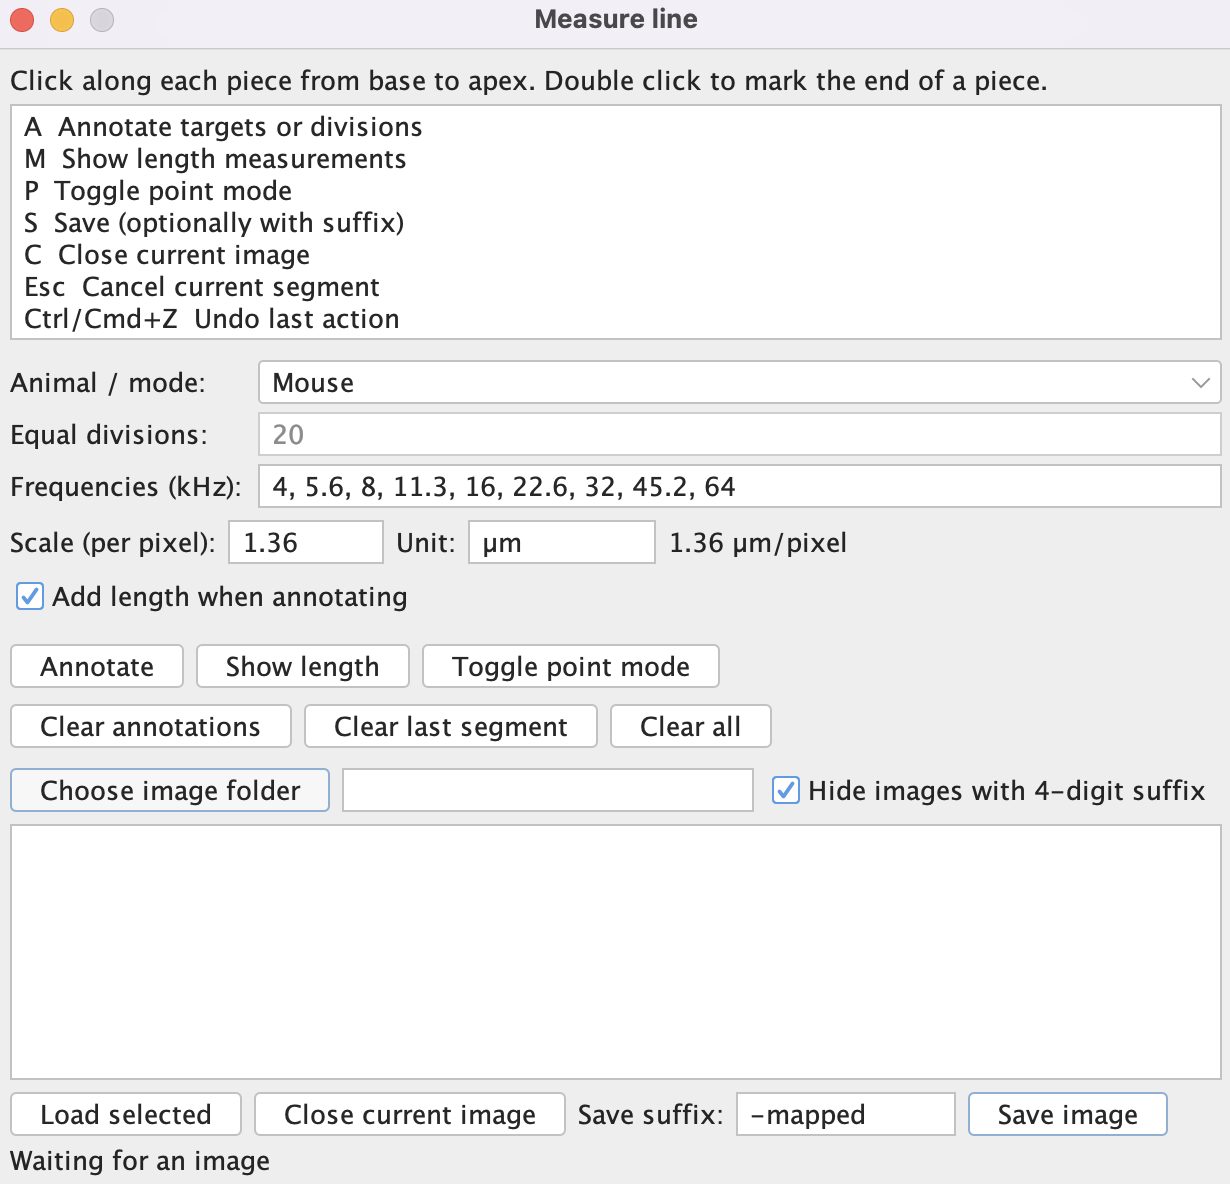
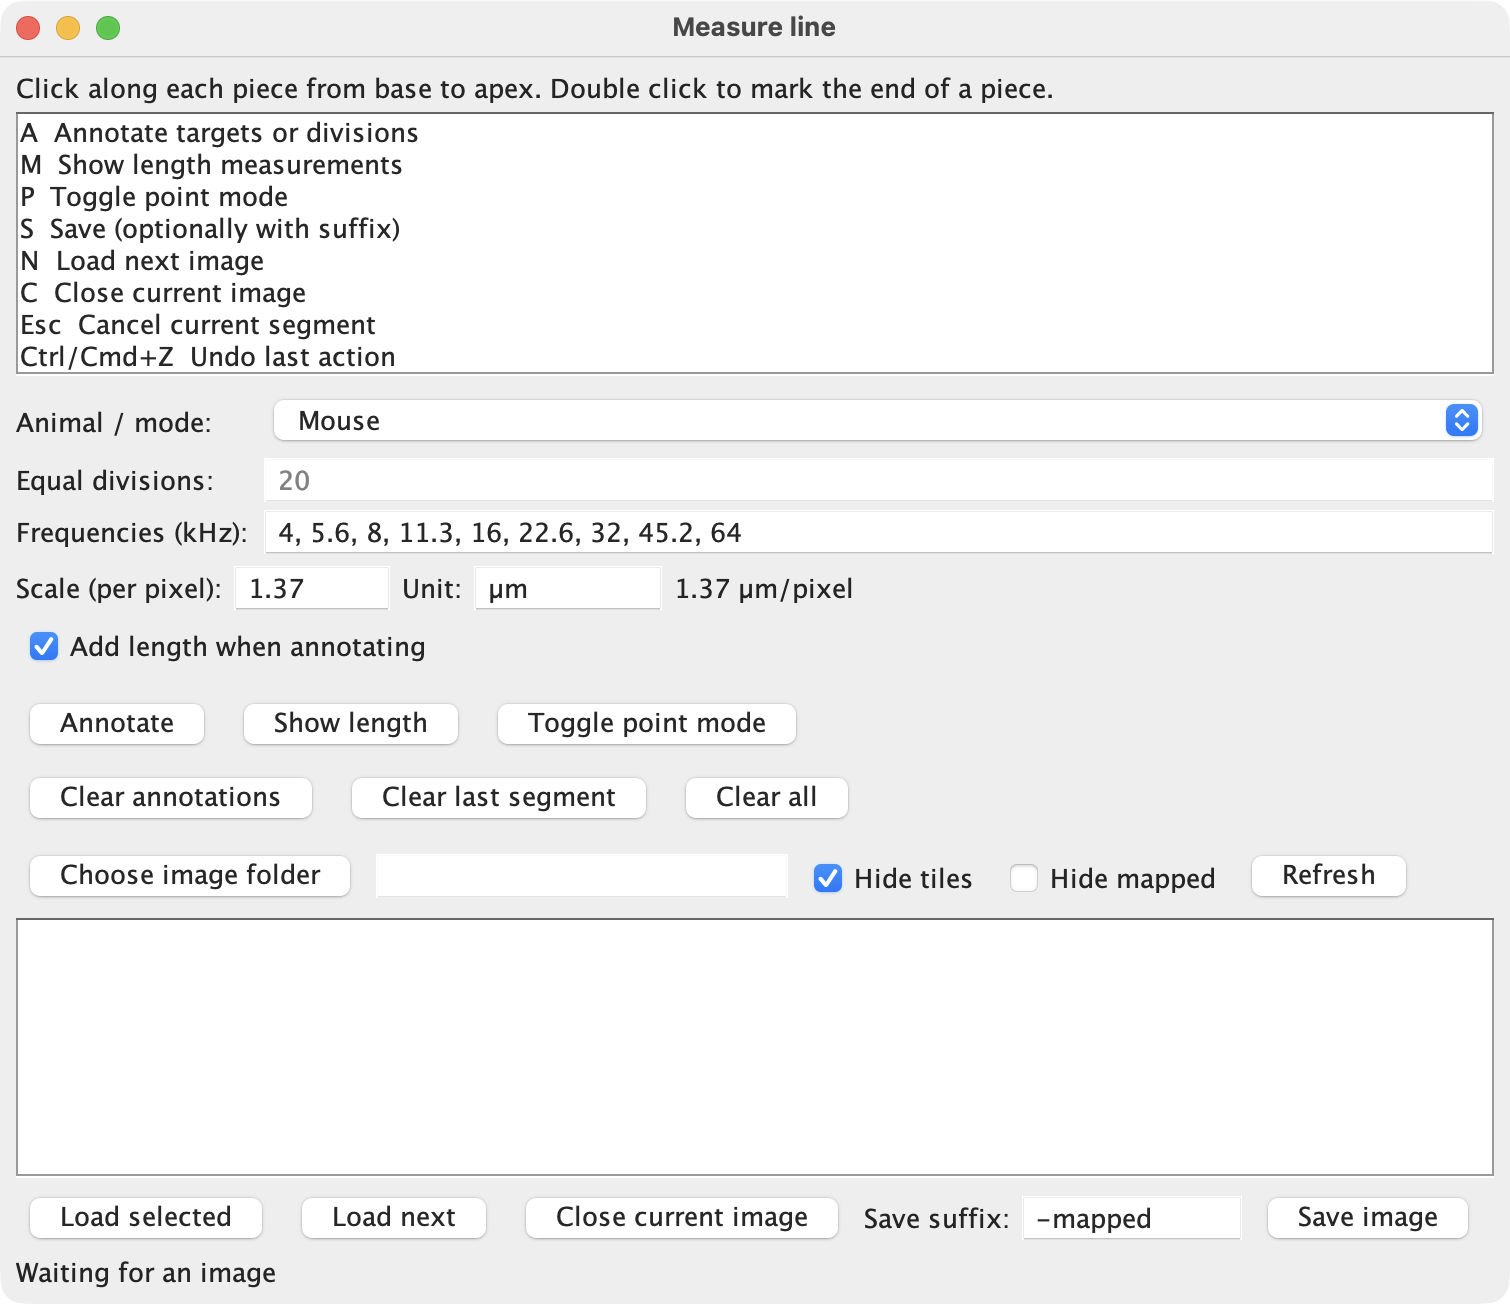
Added filter to exclude already-mapped images and added a next image button and shortcut

diff --git a/src/Measure_line.java b/src/Measure_line.java
@@ -153,12 +153,15 @@ public class Measure_line implements PlugInFilter, MouseListener,
     private Button clearAllButton;
     private Button chooseFolderButton;
     private Button loadButton;
+    private Button loadNextButton;
     private Button closeImageButton;
     private Button saveButton;
+    private Button refreshButton;
     private TextField folderField;
     private TextField suffixField;
     private Checkbox addLengthCheckbox;
     private Checkbox hideFourDigitCheckbox;
+    private Checkbox hideMappedCheckbox;
     private java.awt.List imageList;
     private String selectedFolder;
     private File activeSourceFile;
@@ -277,6 +280,7 @@ public class Measure_line implements PlugInFilter, MouseListener,
         controls = new Frame("Measure line");
         controls.setLayout(new GridBagLayout());
         controls.setResizable(false);
+        controls.addKeyListener(this);
         controls.addWindowListener(new WindowAdapter() {
             @Override
             public void windowClosing(WindowEvent event) {
@@ -299,10 +303,11 @@ public class Measure_line implements PlugInFilter, MouseListener,
             + "M  Show length measurements\n"
             + "P  Toggle point mode\n"
             + "S  Save (optionally with suffix)\n"
+            + "N  Load next image\n"
             + "C  Close current image\n"
             + "Esc  Cancel current segment\n"
             + "Ctrl/Cmd+Z  Undo last action",
-            7, 46, TextArea.SCROLLBARS_NONE);
+            8, 46, TextArea.SCROLLBARS_NONE);
         help.setEditable(false);
         c.gridy++;
         c.insets = new Insets(0, 8, 8, 8);
@@ -396,9 +401,13 @@ public class Measure_line implements PlugInFilter, MouseListener,
         folderField = new TextField("", 24);
         folderField.setEditable(false);
         folderPanel.add(folderField);
-        hideFourDigitCheckbox = new Checkbox("Hide images with 4-digit suffix", true);
+        hideFourDigitCheckbox = new Checkbox("Hide tiles", true);
         hideFourDigitCheckbox.addItemListener(this);
         folderPanel.add(hideFourDigitCheckbox);
+        hideMappedCheckbox = new Checkbox("Hide mapped", false);
+        hideMappedCheckbox.addItemListener(this);
+        folderPanel.add(hideMappedCheckbox);
+        refreshButton = addButton(folderPanel, "Refresh");
         c.gridy++;
         c.insets = new Insets(2, 2, 2, 8);
         controls.add(folderPanel, c);
@@ -411,6 +420,7 @@ public class Measure_line implements PlugInFilter, MouseListener,
 
         Panel fileButtons = new Panel(new FlowLayout(FlowLayout.LEFT, 6, 2));
         loadButton = addButton(fileButtons, "Load selected");
+        loadNextButton = addButton(fileButtons, "Load next");
         closeImageButton = addButton(fileButtons, "Close current image");
         fileButtons.add(new Label("Save suffix:"));
         suffixField = new TextField("-mapped", 12);
@@ -440,6 +450,7 @@ public class Measure_line implements PlugInFilter, MouseListener,
     private Button addButton(Panel panel, String label) {
         Button button = new Button(label);
         button.addActionListener(this);
+        button.addKeyListener(this);
         panel.add(button);
         return button;
     }
@@ -455,7 +466,8 @@ public class Measure_line implements PlugInFilter, MouseListener,
 
     @Override
     public void itemStateChanged(ItemEvent event) {
-        if (event.getSource() == hideFourDigitCheckbox) {
+        if (event.getSource() == hideFourDigitCheckbox
+                || event.getSource() == hideMappedCheckbox) {
             refreshImageList(null);
             return;
         }
@@ -485,8 +497,12 @@ public class Measure_line implements PlugInFilter, MouseListener,
         Object source = event.getSource();
         if (source == chooseFolderButton) {
             chooseFolder();
+        } else if (source == refreshButton) {
+            refreshImageList(imageList.getSelectedItem());
         } else if (source == loadButton || source == imageList) {
             loadSelectedImage();
+        } else if (source == loadNextButton) {
+            loadNextImage();
         } else if (source == closeImageButton) {
             closeCurrentImage();
         } else if (source == saveButton) {
@@ -546,8 +562,23 @@ public class Measure_line implements PlugInFilter, MouseListener,
                 return relativePath(first).compareToIgnoreCase(relativePath(second));
             }
         });
+        Set<String> hiddenMappedStems = new HashSet<String>();
+        String mappedSuffix = suffixField.getText().trim();
+        if (hideMappedCheckbox.getState() && mappedSuffix.length() > 0) {
+            for (File file : files) {
+                String stem = fileStem(file);
+                if (stem.endsWith(mappedSuffix)) {
+                    hiddenMappedStems.add(stemKey(file, stem));
+                    hiddenMappedStems.add(stemKey(file,
+                        stem.substring(0, stem.length() - mappedSuffix.length())));
+                }
+            }
+        }
         for (File file : files) {
             if (hideFourDigitCheckbox.getState() && FOUR_DIGIT_SUFFIX.matcher(file.getName()).matches()) {
+                continue;
+            }
+            if (hiddenMappedStems.contains(stemKey(file, fileStem(file)))) {
                 continue;
             }
             String relative = relativePath(file);
@@ -621,6 +652,16 @@ public class Measure_line implements PlugInFilter, MouseListener,
         setStatus("Active: " + opened.getTitle());
     }
 
+    private void loadNextImage() {
+        int next = imageList.getSelectedIndex() + 1;
+        if (next >= imageList.getItemCount()) {
+            setStatus(imageList.getItemCount() == 0 ? "No images to load" : "No next image");
+            return;
+        }
+        imageList.select(next);
+        loadSelectedImage();
+    }
+
     private void closeCurrentImage() {
         ImagePlus current = WindowManager.getCurrentImage();
         if (current == null) {
@@ -664,7 +705,6 @@ public class Measure_line implements PlugInFilter, MouseListener,
         }
         if (saveByExtension(target, outputExtension)) {
             image.changes = false;
-            refreshImageList(isInsideSelectedFolder(target) ? relativePath(target) : null);
             setStatus("Saved: " + target.getName());
         } else {
             IJ.error("Measure line", "Could not save " + target.getName());
@@ -701,23 +741,21 @@ public class Measure_line implements PlugInFilter, MouseListener,
         return dot < 0 ? "" : name.substring(dot).toLowerCase();
     }
 
+    private static String fileStem(File file) {
+        String name = file.getName();
+        String extension = extensionOf(name);
+        return extension.length() == 0 ? name : name.substring(0, name.length() - extension.length());
+    }
+
+    private static String stemKey(File file, String stem) {
+        return new File(file.getParentFile(), stem).getAbsolutePath();
+    }
+
     private static boolean sameFile(File first, File second) {
         try {
             return first.getCanonicalFile().equals(second.getCanonicalFile());
         } catch (Exception ignored) {
             return first.getAbsoluteFile().equals(second.getAbsoluteFile());
-        }
-    }
-
-    private boolean isInsideSelectedFolder(File file) {
-        if (selectedFolder == null) {
-            return false;
-        }
-        try {
-            String root = new File(selectedFolder).getCanonicalPath() + File.separator;
-            return file.getCanonicalPath().startsWith(root);
-        } catch (Exception ignored) {
-            return false;
         }
     }
 
@@ -1399,7 +1437,8 @@ public class Measure_line implements PlugInFilter, MouseListener,
     @Override
     public void imageOpened(ImagePlus openedImage) {
         if (activeInstance == this && attachToImage(openedImage)) {
-            showControls();
+            openedImage.getWindow().toFront();
+            openedImage.getCanvas().requestFocus();
             setStatus("Active: " + openedImage.getTitle());
         }
     }
@@ -1423,6 +1462,9 @@ public class Measure_line implements PlugInFilter, MouseListener,
             setStatus("Active: " + current.getTitle());
         } else {
             setStatus("Waiting for the next image");
+            if (controls != null) {
+                controls.requestFocus();
+            }
         }
     }
 
@@ -1448,6 +1490,9 @@ public class Measure_line implements PlugInFilter, MouseListener,
                 break;
             case 's':
                 saveImage();
+                break;
+            case 'n':
+                loadNextImage();
                 break;
             case 'c':
                 closeCurrentImage();

diff --git a/tests/MeasureLineIntegrationCheck.java b/tests/MeasureLineIntegrationCheck.java
@@ -8,6 +8,7 @@ import ij.measure.Calibration;
 import ij.process.ByteProcessor;
 
 import java.awt.Button;
+import java.awt.Checkbox;
 import java.awt.Component;
 import java.awt.Container;
 import java.awt.EventQueue;
@@ -20,11 +21,15 @@ import java.awt.Panel;
 import java.awt.TextArea;
 import java.awt.TextField;
 import java.awt.event.InputEvent;
+import java.awt.event.ItemEvent;
 import java.awt.event.KeyEvent;
 import java.awt.event.MouseEvent;
+import java.nio.file.Files;
+import java.nio.file.Path;
 import java.lang.reflect.Field;
 import java.lang.reflect.Method;
 import java.util.ArrayList;
+import java.util.Arrays;
 import java.util.List;
 
 public class MeasureLineIntegrationCheck {
@@ -37,6 +42,8 @@ public class MeasureLineIntegrationCheck {
 
         Frame controls = findControls();
         require(controls != null, "Control window did not open without an image");
+        require(Arrays.asList(controls.getKeyListeners()).contains(plugin),
+            "Control window does not receive keyboard shortcuts");
         require(collectLabels(controls).contains("Frequencies (kHz):"),
             "Frequencies label is missing");
         require(!collectLabels(controls).contains("Targets (kHz):"),
@@ -47,10 +54,37 @@ public class MeasureLineIntegrationCheck {
             "Undo shortcut is missing from the mini manual");
         require(collectButtons(controls).contains("Close current image"),
             "Close current image button is missing");
+        require(collectButtons(controls).contains("Load next"),
+            "Load next button is missing");
         require(collectButtons(controls).contains("Toggle point mode"),
             "Toggle point mode button is missing");
+        require(collectButtons(controls).contains("Refresh"),
+            "Refresh button is missing");
+        Checkbox hideTiles = (Checkbox) field(plugin, "hideFourDigitCheckbox");
+        require("Hide tiles".equals(hideTiles.getLabel()),
+            "Hide tiles checkbox label is incorrect: " + hideTiles.getLabel());
+        Checkbox hideMapped = (Checkbox) field(plugin, "hideMappedCheckbox");
+        require("Hide mapped".equals(hideMapped.getLabel()),
+            "Hide mapped checkbox label is incorrect: " + hideMapped.getLabel());
+
+        Path mappedFolder = Files.createTempDirectory("measure-line-mapped-filter");
+        Files.createFile(mappedFolder.resolve("sample.png"));
+        Files.createFile(mappedFolder.resolve("sample-mapped.tif"));
+        Files.createFile(mappedFolder.resolve("other.tif"));
+        setField(plugin, "selectedFolder", mappedFolder.toString());
+        hideMapped.setState(true);
+        plugin.itemStateChanged(new ItemEvent(hideMapped, ItemEvent.ITEM_STATE_CHANGED,
+            hideMapped, ItemEvent.SELECTED));
+        java.awt.List mappedFiles = (java.awt.List) field(plugin, "imageList");
+        require(mappedFiles.getItemCount() == 1 && "other.tif".equals(mappedFiles.getItem(0)),
+            "Hide mapped did not hide the mapped/base pair");
+        mappedFiles.removeAll();
+        hideMapped.setState(false);
+        setField(plugin, "selectedFolder", null);
         require(collectText(controls).contains("P  Toggle point mode"),
             "Point-mode shortcut wording is incorrect");
+        require(collectText(controls).contains("N  Load next image"),
+            "Load-next shortcut is missing from the mini manual");
         require(!collectLabels(controls).contains("(blank = image scale)"),
             "Old scale hint remains");
         assertLeftAligned(controls);
@@ -146,7 +180,19 @@ public class MeasureLineIntegrationCheck {
         require(first.getWindow() == null, "C did not close Fiji's last-focused image");
         require(second.getWindow() != null, "C closed the plugin-attached image instead");
 
-        System.out.println("Measure line undo, focus, layout, frequency, and scale checks passed");
+        second.changes = false;
+        second.close();
+        flushEdt();
+        java.awt.List imageFiles = (java.awt.List) field(plugin, "imageList");
+        imageFiles.add("only.tif");
+        imageFiles.select(0);
+        plugin.keyTyped(new KeyEvent(controls, KeyEvent.KEY_TYPED,
+            System.currentTimeMillis(), 0, KeyEvent.VK_UNDEFINED, 'n'));
+        Label status = (Label) field(plugin, "statusLabel");
+        require("No next image".equals(status.getText()),
+            "N stopped working after the last image closed: " + status.getText());
+
+        System.out.println("Measure line undo, focus, layout, frequency, scale, and navigation checks passed");
         System.exit(0);
     }
 
@@ -186,6 +232,12 @@ public class MeasureLineIntegrationCheck {
         Field field = target.getClass().getDeclaredField(name);
         field.setAccessible(true);
         return field.get(target);
+    }
+
+    private static void setField(Object target, String name, Object value) throws Exception {
+        Field field = target.getClass().getDeclaredField(name);
+        field.setAccessible(true);
+        field.set(target, value);
     }
 
     private static int intField(Object target, String name) throws Exception {